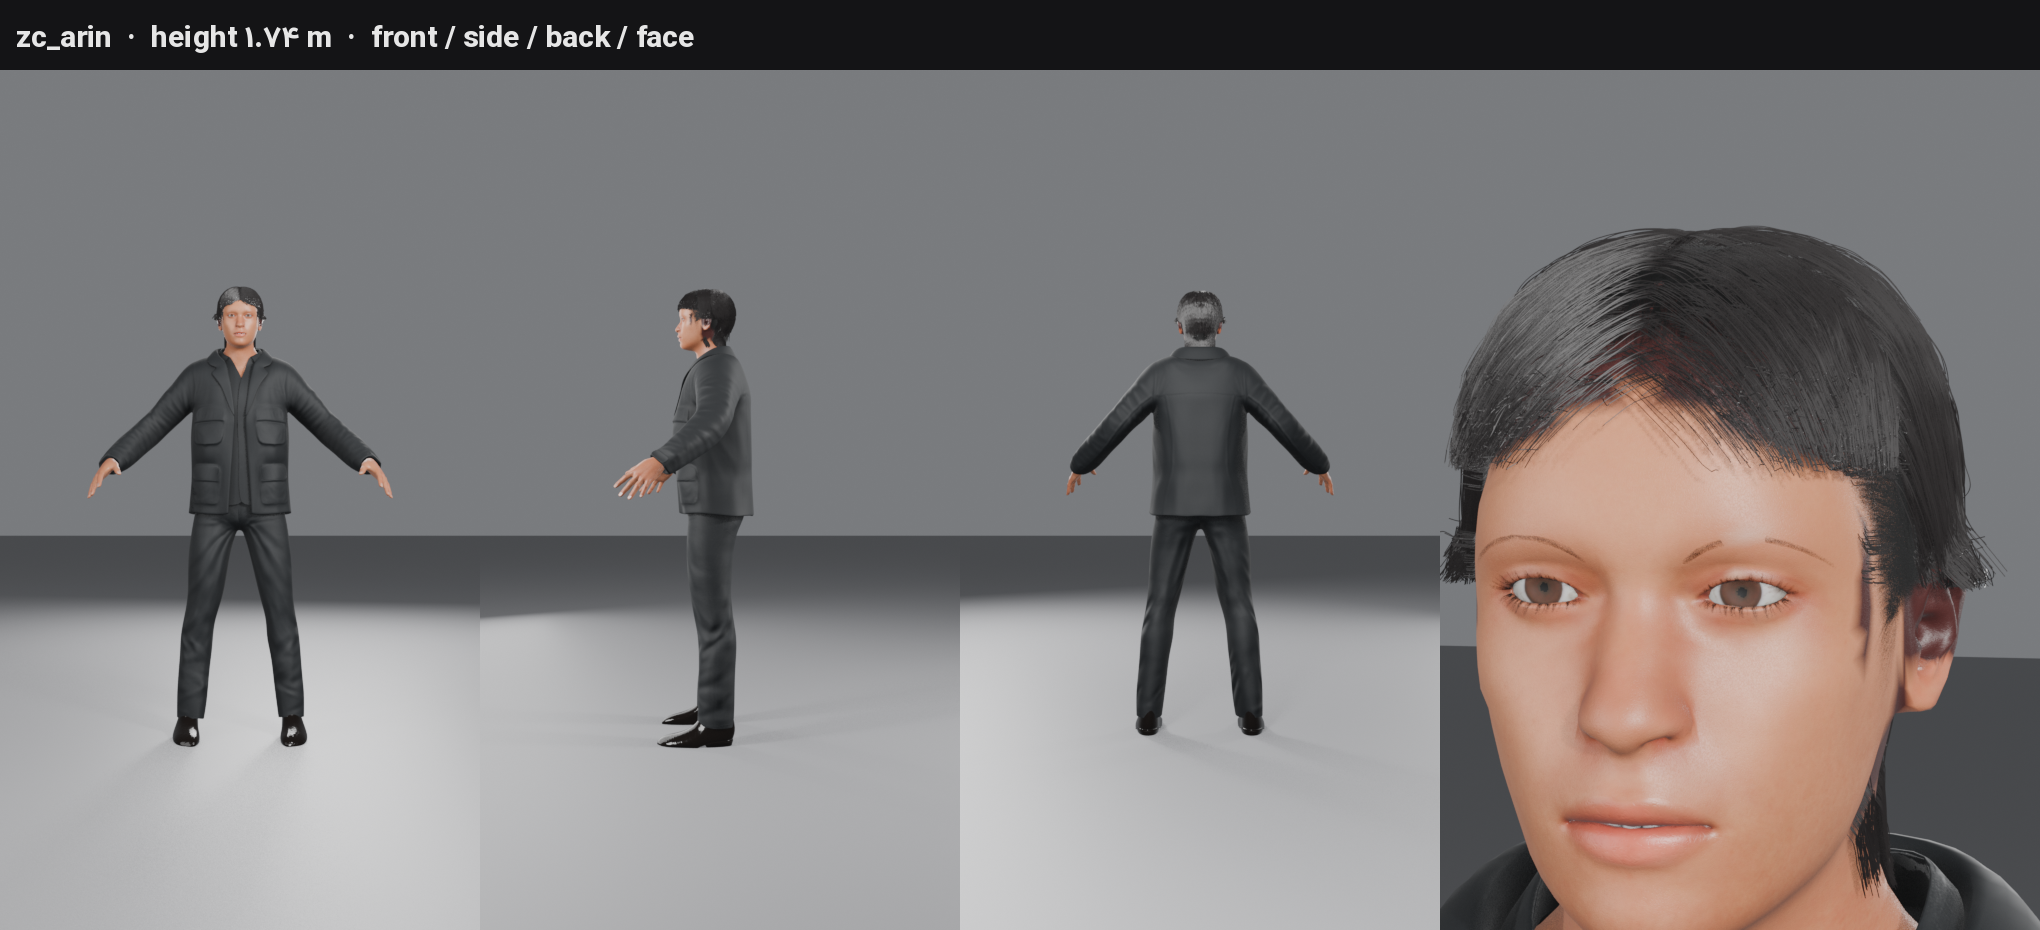
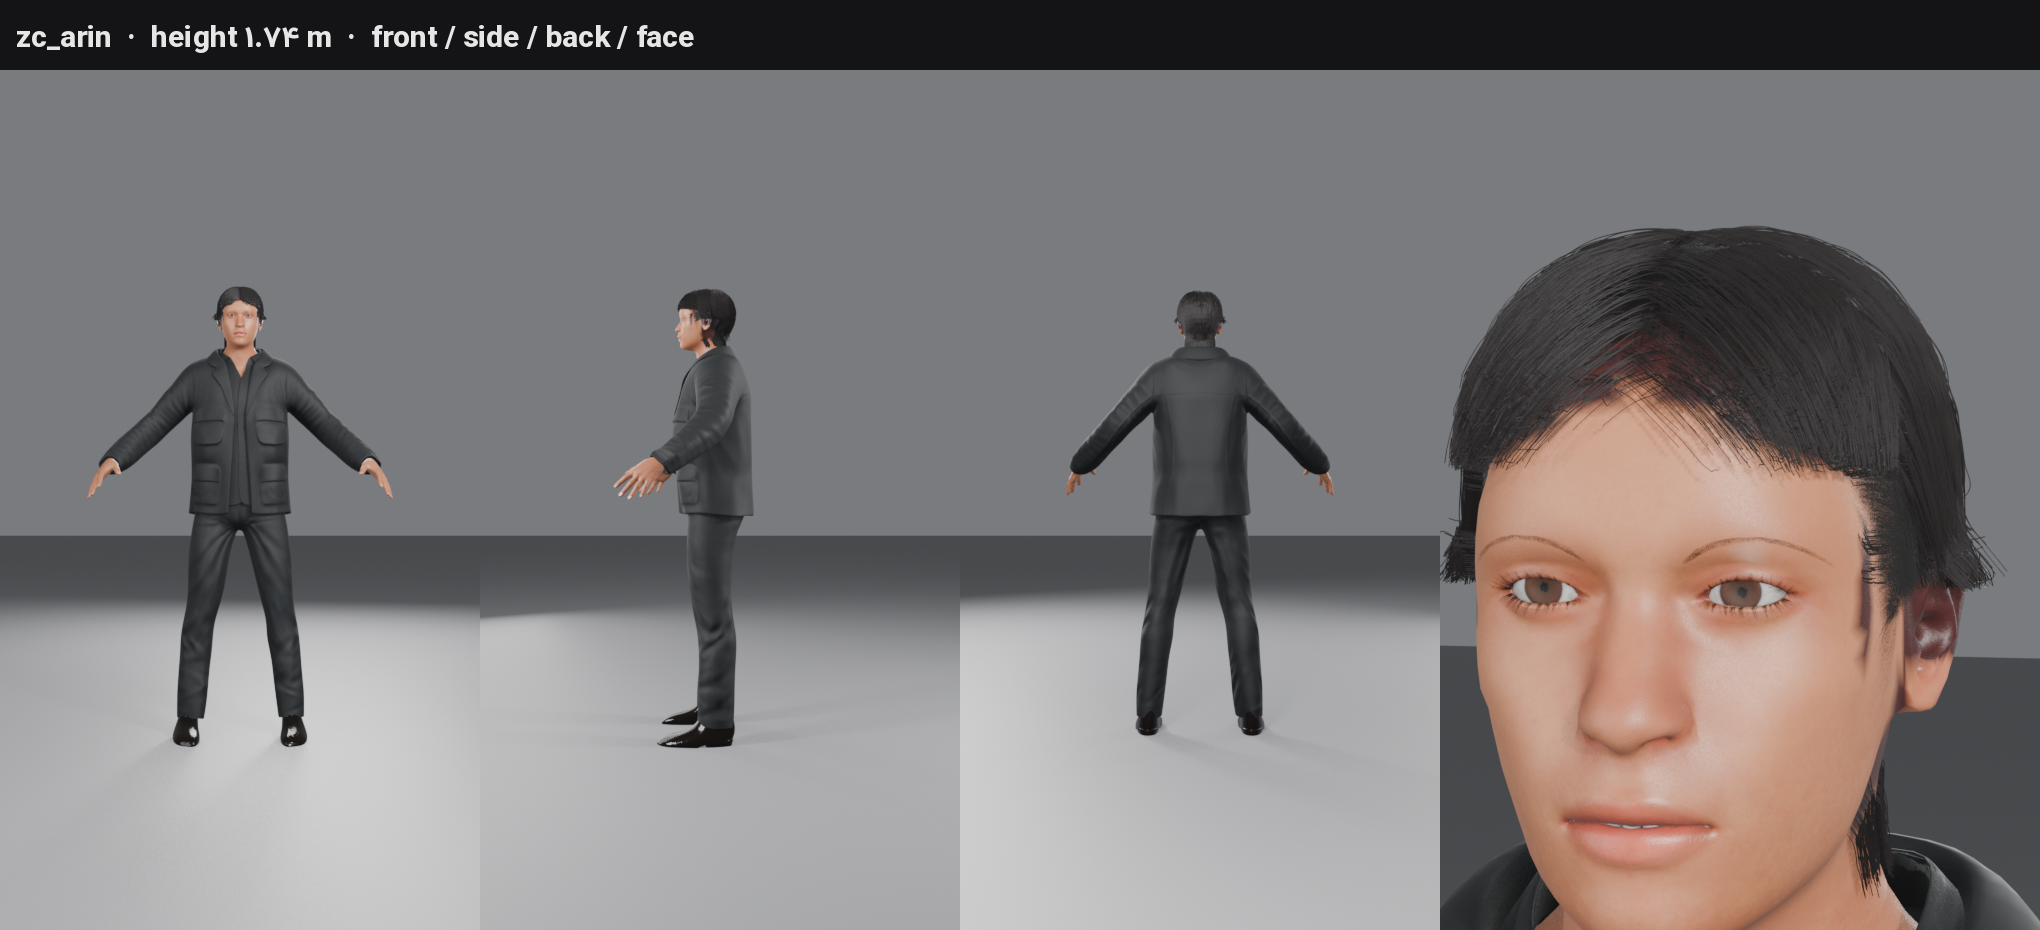
Zombie Center: Arin hair/scalp/scar/brow fixes
Claude-Session: https://claude.ai/code/session_0195jcA6aNEjGkEhpvKfuJLv

diff --git a/blender/zombie_center/zc_hair.py b/blender/zombie_center/zc_hair.py
@@ -73,7 +73,10 @@ def centre_part_hair(ch, n=20000, seed=1, colour=(0.012, 0.010, 0.010), name=Non
         fy = (p.y - front_y) / max(1e-6, (back_y - front_y))
         return on_scalp(p) and (abs(p.x - cx) < 0.055 or p.z > ear_z + 0.05 or (fy > 0.68 and p.z > ear_z - 0.01))
     faces = [f for f in bm.faces if root_ok(f.calc_center_median())]
-    _darken_scalp(body, on_scalp)
+    def paint_ok(p):
+        fy = (p.y - front_y) / max(1e-6, (back_y - front_y))
+        return root_ok(p) and (fy > 0.3 or p.z > hairline_front + 0.02)
+    _darken_scalp(body, paint_ok)
     areas = [f.calc_area() for f in faces]
     tot = sum(areas)
     roots = []
@@ -152,8 +155,10 @@ def centre_part_hair(ch, n=20000, seed=1, colour=(0.012, 0.010, 0.010), name=Non
             pts.append(p.copy())
         for i in range(1, len(pts)):           # hard guard: nothing beside the face, nothing over the eyes
             q = pts[i]
-            if (abs(q.x - cx) > 0.058 and q.z < ear_z + 0.045) or (fy < 0.45 and abs(q.x - cx) < 0.058 and q.z < brow_z + 0.025):
+            if q.z < ear_z - 0.03 or (abs(q.x - cx) > 0.058 and q.z < ear_z + 0.045) or (fy < 0.45 and abs(q.x - cx) < 0.058 and q.z < brow_z + 0.025):
                 pts[i] = pts[i - 1].copy()
+        if sum((pts[i] - pts[i - 1]).length for i in range(1, len(pts))) < 0.4 * L:
+            continue                           # clipped to a stub: would show as a dot, drop it
         strands.append(pts)
     bm.free()
 

diff --git a/blender/zombie_center/zc_look.py b/blender/zombie_center/zc_look.py
@@ -66,11 +66,11 @@ def brow_scar(ch, side=+1):
         f = min(1.0, max(0.0, f))
         q = a + (b - a) * f
         return Vector((p.x - q.x, 0, p.z - q.z)).length if p.y < front + 0.03 else 1.0
-    M.paint(body, "zc_scar", lambda p, n: (M.smooth(0.0014, 0.0005, dist(p)), 0, 0))
+    M.paint(body, "zc_scar", lambda p, n: (M.smooth(0.0042, 0.0016, dist(p)), 0, 0))
     M.recolor(body, lambda nt, c: M.mix(nt, c, (0.78, 0.6, 0.55), M.attr(nt, "zc_scar")[0]))
     import bmesh
     for o in ch.parts.get("Eyebrows", []):
         bm = bmesh.new(); bm.from_mesh(o.data)
-        kill = [v for v in bm.verts if dist(o.matrix_world @ v.co) < 0.0012]
+        kill = [v for v in bm.verts if dist(o.matrix_world @ v.co) < 0.0022]
         bmesh.ops.delete(bm, geom=kill, context="VERTS")
         bm.to_mesh(o.data); bm.free()

diff --git a/blender/zombie_center/zc_cast.py b/blender/zombie_center/zc_cast.py
@@ -17,7 +17,7 @@ ZC = {
         fa="آرین", role="Subject 001. 19, lean, black centre-parted hair, dark eyes, small scar at the LEFT eyebrow.",
         gender=1.0, age=0.43, height=0.55, weight=0.42, muscle=0.5, skin="young_caucasian_male", skin_tint=OLIVE,
         hair="short04", hair_col=(0.02, 0.018, 0.018), strand_hair="centre_part",   # short04 = dark scalp layer under the strands
-        brow="eyebrow006", brow_col=(0.03, 0.025, 0.022), dark_eyes=True,
+        brow="eyebrow004", brow_col=(0.03, 0.025, 0.022), dark_eyes=True,
         scar="left_brow",
         clothes={"male_casualsuit05": (0.16, 0.17, 0.18), "toigo_ankle_boots_male": (0.12, 0.1, 0.09)}),
     "zc_nika": dict(
